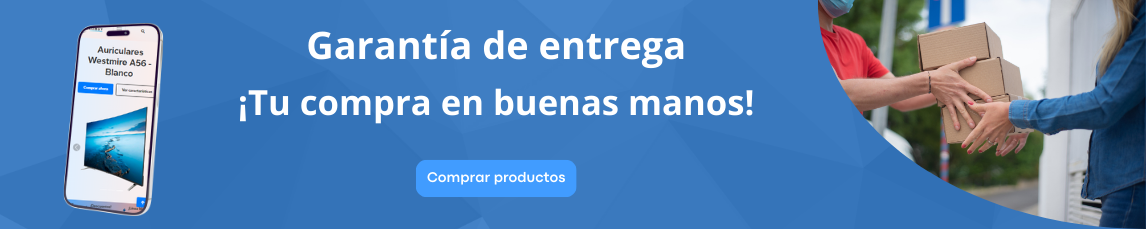
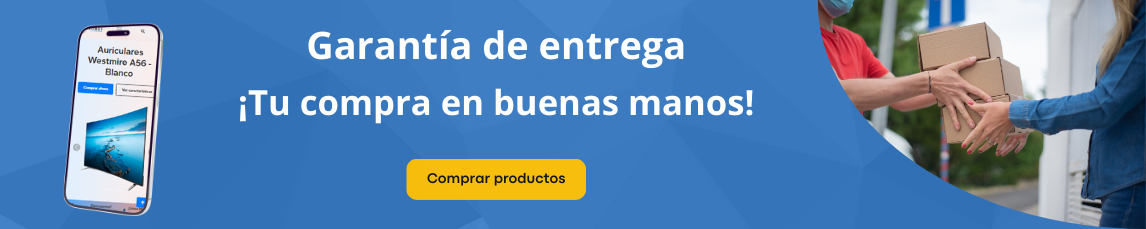
cambios8

Changed region(s): [[0.336, 0.6725, 0.5192, 0.8865]]

diff --git a/css/styles.css b/css/styles.css
@@ -29,8 +29,6 @@ body {
     display: block; /* Asegura que se muestre como bloque */
 }
 
-
-
 .navbar {
     background-image: url('../imagenes/bannerCeleste2.png'); /* Cambia la ruta por la de tu imagen */
     background-size: cover; /* Ajusta la imagen para cubrir todo el área */
@@ -88,7 +86,7 @@ body {
     bottom: -3px;
     width: 0;
     height: 2px;
-    background-color: #000000;
+    background-color: #ffc107;
     transition: width 0.3s ease;
 }
 
@@ -98,7 +96,7 @@ body {
 
 /* Efecto de subrayado animado para el enlace activo */
 .navbar-nav .nav-item.active .nav-link {
-    color: #000000; /* Cambia el color del enlace activo */
+    color: #ffc107; /* Cambia el color del enlace activo */
 }
 
 .navbar-nav .nav-item.active .nav-link::after {
@@ -108,12 +106,12 @@ body {
 /* Mantiene el subrayado negro en el enlace activo */
 .navbar-nav .nav-link:hover,
 .navbar-nav .nav-item.active .nav-link:hover {
-    color: #000000; /* Color en hover */
+    color: #ffc107; /* Color en hover */
 }
 
 /* Efecto de subrayado para el enlace activo */
 .navbar-nav .nav-item.active .nav-link::after {
-    background-color: #000000; /* Color de subrayado */
+    background-color: #ffc107; /* Color de subrayado */
 }
 
 
@@ -134,7 +132,7 @@ a.btn.btn-outline-primary::after {
     bottom: -3px; 
     width: 0;
     height: 2px;
-    background-color: #000000; /* Color de la línea */
+    background-color: #ffc107; /* Color de la línea */
     transition: width 0.3s ease;
 }
 
@@ -181,7 +179,7 @@ a.btn.btn-outline-primary .fas {
 /* Asegura que el color de los íconos sea negro en hover */
 #searchButton:hover .fas,
 a.btn.btn-outline-primary:hover .fas {
-    color: #000000; 
+    color: #ffc107; 
 }
 
 /* Estilo para el botón de búsqueda en el formulario */
@@ -282,7 +280,7 @@ a.btn.btn-outline-primary:hover .fas {
 /* Barra Deslizadora */
 /*============================*/
 .tf-marquee {
-    background: linear-gradient(90deg, #4faaff, #f79c83);
+    background: linear-gradient(90deg, #62b1fcce, #ffc1075e);
     padding: 10px 0;
     overflow: hidden;
     position: relative;

diff --git a/index.html b/index.html
@@ -67,7 +67,7 @@
             <i class="fas fa-search"></i>
         </button>
         <form class="form-inline d-none" id="searchForm">
-            <input class="form-control me-sm-2" type="search" placeholder="Search" aria-label="Search">
+            <input class="form-control me-sm-2" type="search" aria-label="Search">
             <button class="btn btn-outline-success" type="submit">Buscar</button>
         </form>
 
